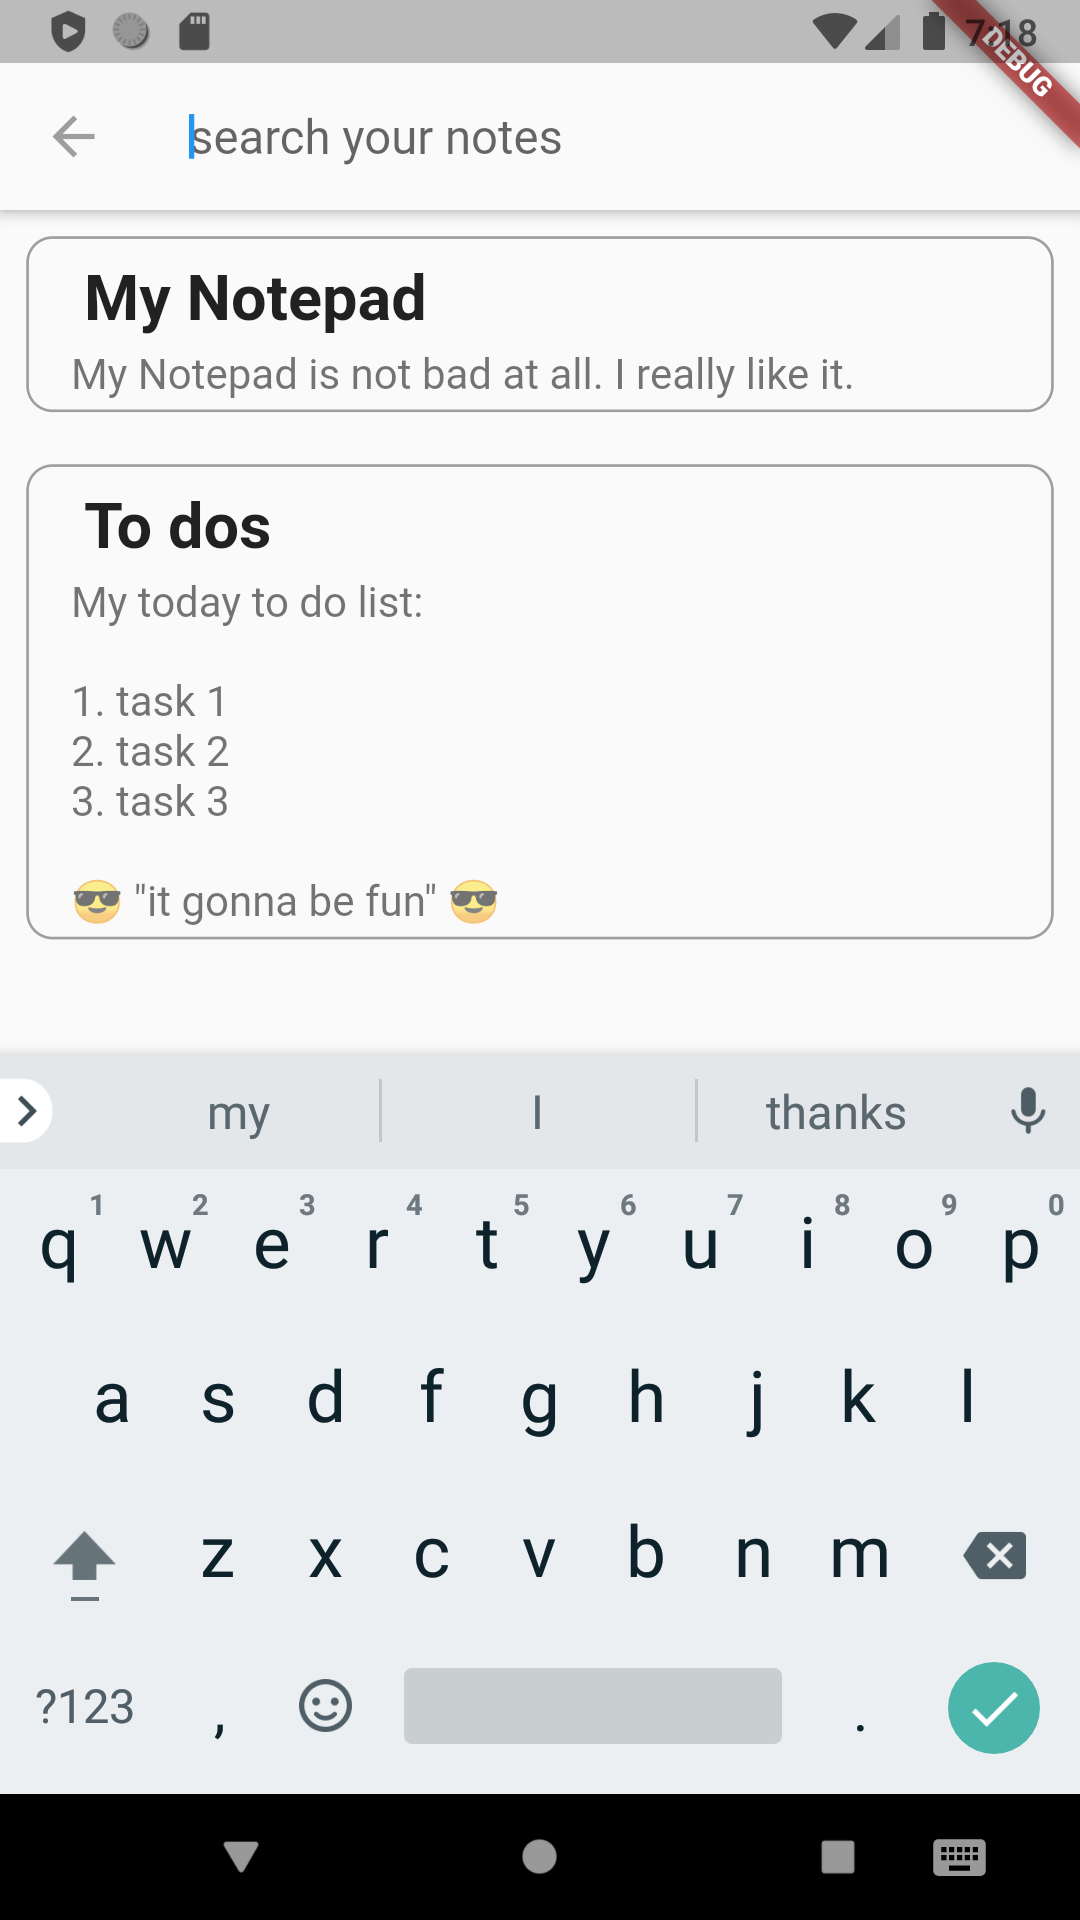
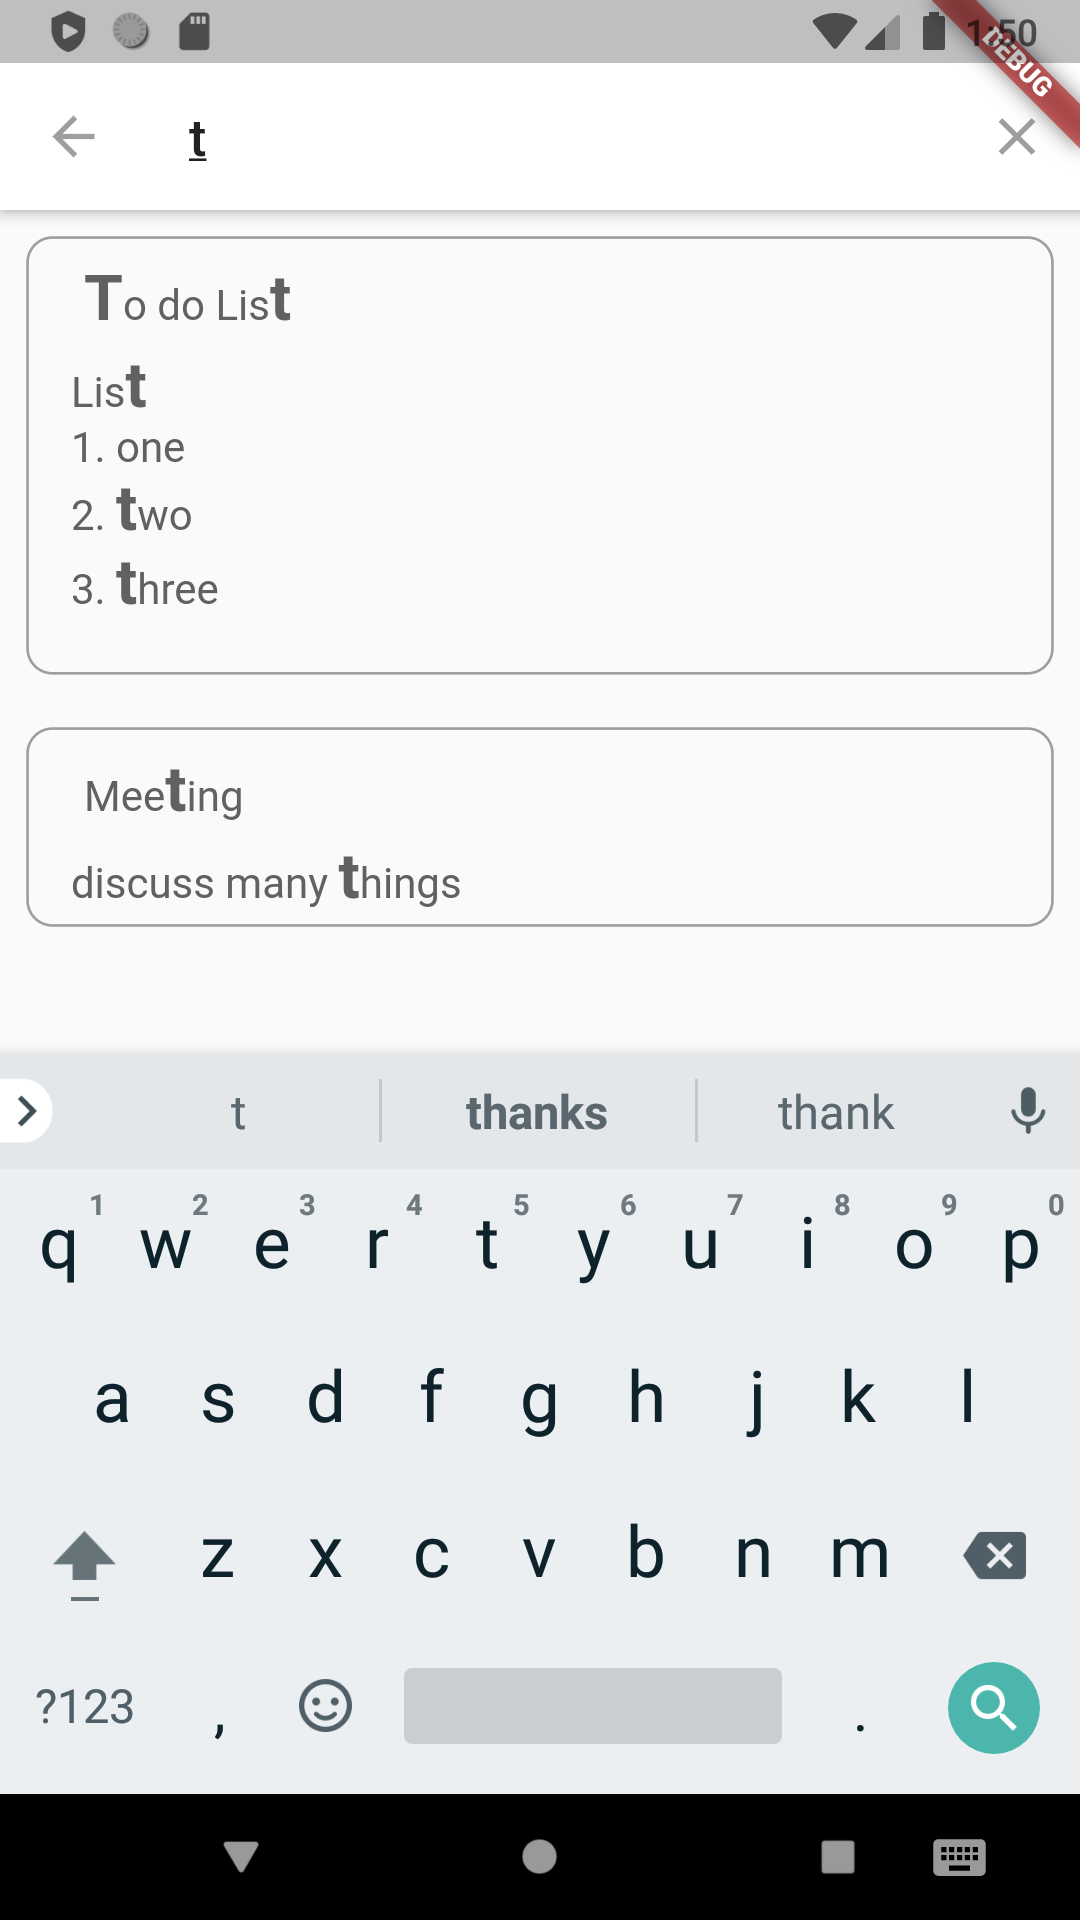
modify search to be non case sensitive and can search sentences

diff --git a/lib/views/datasearch.dart b/lib/views/datasearch.dart
@@ -5,29 +5,48 @@ import 'package:notepad/views/editpage.dart';
 
 class DataSearch extends SearchDelegate<String> {
   BuildContext context;
+
   DataSearch(this.context);
+
   _span(String text) {
     return TextSpan(
       text: text,
       style: TextStyle(
         color: Colors.grey[700],
-        fontSize: text == query ? 24.0 : 16.0,
-        fontWeight: text == query ? FontWeight.bold : FontWeight.normal,
+        fontSize: text.toLowerCase() == query.toLowerCase() ? 24.0 : 16.0,
+        fontWeight: text.toLowerCase() == query.toLowerCase()
+            ? FontWeight.bold
+            : FontWeight.normal,
       ),
     );
   }
 
   _spanList(String text) {
-    final bunks = text.split(RegExp(query));
-    final len = bunks.length;
-    List<TextSpan> ans = [];
-    int i = 0;
-    if (bunks[0] == "")
-      i++;
-    else
-      ans.add(_span(bunks[i++]));
-    while (i < len) ans.addAll([_span(query), _span(bunks[i++])]);
-    return ans;
+    if (query == "") {
+      return <InlineSpan>[_span(text)];
+    } else {
+      var curr = -query.length;
+      var prev = 0;
+      List<TextSpan> ans = [];
+      while (true) {
+        curr = text
+            .toLowerCase()
+            .indexOf(query.toLowerCase(), curr + query.length);
+        if (curr < 0) {
+          ans.add(_span(text.substring(prev)));
+          break;
+        }
+
+        ans.addAll(
+          [
+            _span(text.substring(prev, curr)),
+            _span(text.substring(curr, curr + query.length)),
+          ],
+        );
+        prev = curr + query.length;
+      }
+      return ans;
+    }
   }
 
   _buildListItem(Note note) {
@@ -43,7 +62,6 @@ class DataSearch extends SearchDelegate<String> {
             maxLines: 1,
             overflow: TextOverflow.ellipsis,
             text: TextSpan(
-              text: "",
               children: _spanList(note.title),
             ),
           ),
@@ -52,7 +70,6 @@ class DataSearch extends SearchDelegate<String> {
           maxLines: 10,
           overflow: TextOverflow.ellipsis,
           text: TextSpan(
-            text: "",
             children: _spanList(note.text),
           ),
         ),
@@ -78,15 +95,10 @@ class DataSearch extends SearchDelegate<String> {
   }
 
   _result() {
-    final all = dataBase.allNotes;
+    final all = dataBase.allNotes.values;
     final list = all.where((element) {
-      final regexp = RegExp(".*" + query + ".*");
-      final bunks =
-          element.title.split(RegExp(" ")) + element.text.split(RegExp(" "));
-      for (var item in bunks) {
-        if (regexp.hasMatch(item)) return true;
-      }
-      return false;
+      final regexp = RegExp(".*" + query + ".*", caseSensitive: false);
+      return regexp.hasMatch(element.title) || regexp.hasMatch(element.text);
     }).toList();
     return _buildList(list);
   }

diff --git a/lib/data/data.dart b/lib/data/data.dart
@@ -29,7 +29,7 @@ class Data {
     return file;
   }
 
-  get allNotes => _allNotes.values;
+  get allNotes => _allNotes;
 
   get nextId {
     while (_allNotes.containsKey(_nextId.toString()) || _nextId == 0) _nextId++;
@@ -58,34 +58,6 @@ class Data {
       str += value.toString();
     });
     return str;
-  }
-
-  static String mark(String text, String keyword) {
-    final bunks = text.split(RegExp(keyword));
-    String ans;
-    int i = 0;
-    if (text.indexOf(keyword) == 0)
-      ans = "**" + keyword;
-    else
-      ans = bunks[i++] + "**" + keyword;
-    while (i < bunks.length) {
-      ans += "**" + bunks[i++];
-    }
-    return ans;
-  }
-
-  Map<String, Note> search(String keyword) {
-    if (keyword == "") {
-      return {};
-    } else {
-      Map<String, Note> ans = {};
-      _allNotes.forEach((key, value) {
-        ans[key] = Note.copy(_allNotes[key]);
-        ans[key].title = mark(ans[key].title, keyword);
-        ans[key].text = mark(ans[key].text, keyword);
-      });
-      return ans;
-    }
   }
 
   Stream<Map<String, Map<String, Note>>> snapshots() async* {
